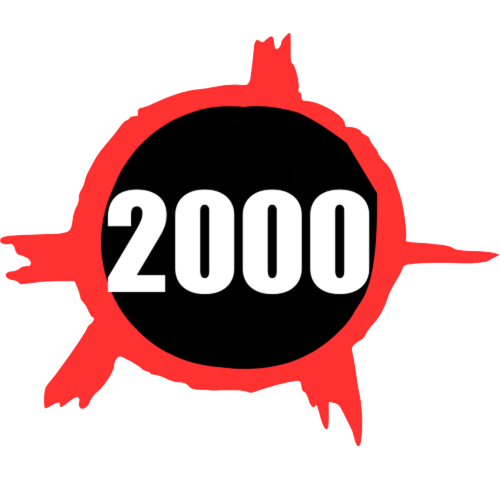
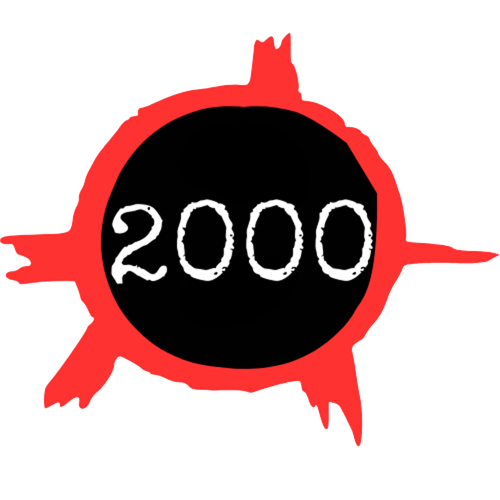
Versão 2 - Etapa 1 (Home) / Imagens na Home e Estilização de texto

Changed region(s): [[0.21, 0.36, 0.75, 0.6]]

diff --git a/index.html b/index.html
@@ -15,6 +15,10 @@
   <link rel="preconnect" href="https://fonts.googleapis.com">
   <link href="https://fonts.googleapis.com/css2?family=Archivo+Black&family=Roboto:wght@300;400;700&display=swap"
     rel="stylesheet">
+
+  <link rel="preconnect" href="https://fonts.googleapis.com">
+  <link rel="preconnect" href="https://fonts.gstatic.com" crossorigin>
+  <link href="https://fonts.googleapis.com/css2?family=Special+Elite&display=swap" rel="stylesheet">
 </head>
 
 <body>
@@ -29,34 +33,33 @@
     <section class="hero" id="hero" role="region" aria-label="Introdução - Abutris">
       <!-- Coluna esquerda (PUNK) -->
       <div class="side-column left">
-        <img src="assets/images/punk1.gif" alt="P">
-        <img src="assets/images/punk2.gif" alt="U">
-        <img src="assets/images/punk3.gif" alt="N">
-        <img src="assets/images/punk4.gif" alt="K">
+        <img src="assets/images/home/PunkP.gif" alt="P">
+        <img src="assets/images/home/PunkU.gif" alt="U">
+        <img src="assets/images/home/PunkN.gif" alt="N">
+        <img src="assets/images/home/PunkK1.gif" alt="K">
       </div>
 
       <!-- Conteúdo central -->
       <div class="hero-inner">
-        <img class="hero-logo" src="assets/images/logo.png" alt="Logotipo Abutris" />
+        <img class="hero-logo" src="assets/images/home/LogotipoAbutris.png" alt="Logotipo Abutris" />
         <p class="hero-subtitle">HISTÓRIA DO CAOS</p>
 
         <p class="hero-desc">
-          Uma linha do tempo interativa sobre a história do punk rock — explore décadas, bandas, imagens e episódios que
-          moldaram o movimento.
+          Fragmentos de rebeldia, ecos de guitarras e rastros de anarquia. O punk não morreu — ele pulsa em cada um de nós.
         </p>
 
         <a href="#timeline" class="scroll-link" id="scrollToTimeline" aria-label="Ir para a linha do tempo">
-          <span class="arrow" aria-hidden="true"></span>
+          <img src="assets/images/home/SetaVermelha.png" alt="Seta para baixo" class="scroll-arrow">
           <span class="sr-only">Descer para a timeline</span>
         </a>
       </div>
 
       <!-- Coluna direita (ROCK) -->
       <div class="side-column right">
-        <img src="assets/images/rock1.gif" alt="R">
-        <img src="assets/images/rock2.gif" alt="O">
-        <img src="assets/images/rock3.gif" alt="C">
-        <img src="assets/images/rock4.gif" alt="K">
+        <img src="assets/images/home/RockR.gif" alt="R">
+        <img src="assets/images/home/RockO.gif" alt="O">
+        <img src="assets/images/home/RockC.gif" alt="C">
+        <img src="assets/images/home/RockK2.gif" alt="K">
       </div>
     </section>
 

diff --git a/assets/css/style.css b/assets/css/style.css
@@ -26,7 +26,7 @@ body{
 /* ===== NAVBAR ===== */
 .navbar {
   position: fixed;
-  top: 0; left: 0;
+  top: 5; left: 0;
   width: 100%;
   display: flex;
   justify-content: space-between;
@@ -35,14 +35,14 @@ body{
   background: transparent;
 }
 .navbar a {
-  font-family: 'Archivo Black', Impact, sans-serif;
-  font-size: 0.9rem;
-  color: var(--white);
+  font-family: 'Special Elite', Impact, sans-serif;
+  font-size: 1.3rem;
+  color: var(--accent);
   text-decoration: none;
   transition: color 0.2s;
 }
 .navbar a:hover {
-  color: var(--accent);
+  color: var(--white);
 }
 
 /* ===== HERO (primeira tela) ===== */
@@ -63,28 +63,24 @@ body{
   max-width: 800px;
   margin: 0 auto;
   z-index: 1;
-
-  background: var(--panel);
-  padding: 2rem;
-  border-radius: 8px;
-  box-shadow: 0 10px 30px rgba(0,0,0,0.6);
 }
 
 .hero-logo {
-  max-width: 280px;
-  margin-bottom: 20px;
+  max-width: 650px;
+  margin-bottom: 10px;
 }
 .hero-subtitle {
-  font-family: 'Archivo Black', Impact, sans-serif;
-  font-size: 1.6rem;
+  font-family: 'Special Elite', Impact, sans-serif;
+  font-size: 2.5rem;
   color: var(--accent);
   margin: 10px 0;
   text-transform: uppercase;
 }
 .hero-desc {
-  font-size: 1rem;
-  color: #eee;
-  margin: 0 0 1.4rem;
+  font-family: 'Special Elite', Impact, sans-serif;
+  font-size: 1.5rem;
+  color: black;
+  margin: 0 0 0rem;
   line-height: 1.5;
 }
 
@@ -93,13 +89,14 @@ body{
   display: flex;
   flex-direction: column;
   justify-content: center;
-  gap: 15px;
+  gap: 0px;
   z-index: 1;
 }
 .side-column img {
-  width: 80px;
+  width: 190px;
   height: auto;
   display: block;
+  margin-top: -50px;
 }
 .side-column.left {
   position: absolute;
@@ -112,24 +109,22 @@ body{
   top: 50%;
   right: 40px;
   transform: translateY(-50%);
-}
+  }
 
 /* ===== Scroll hint (seta) ===== */
 .scroll-link{display:inline-block;text-decoration:none}
-.arrow{
-  display:inline-block;
-  width:42px;
-  height:42px;
-  border-left:4px solid var(--accent);
-  border-bottom:4px solid var(--accent);
-  transform:rotate(-45deg);
-  margin-top:8px;
-  animation: bounce 1.6s infinite;
+.scroll-arrow {
+  width: 80px;   /* ajusta o tamanho da sua seta */
+  height: auto;
+  display: block;
+  margin: 20px auto 0;
+  cursor: pointer;
+  animation: bounce 1.6s infinite; /* mantém o mesmo efeito da seta antiga */
 }
 @keyframes bounce{
-  0%{transform:translateY(0) rotate(-45deg)}
-  50%{transform:translateY(10px) rotate(-45deg)}
-  100%{transform:translateY(0) rotate(-45deg)}
+  0%{transform:translateY(0)}
+  50%{transform:translateY(10px)}
+  100%{transform:translateY(0)}
 }
 
 /* ===== Timeline placeholder (segunda tela) ===== */
